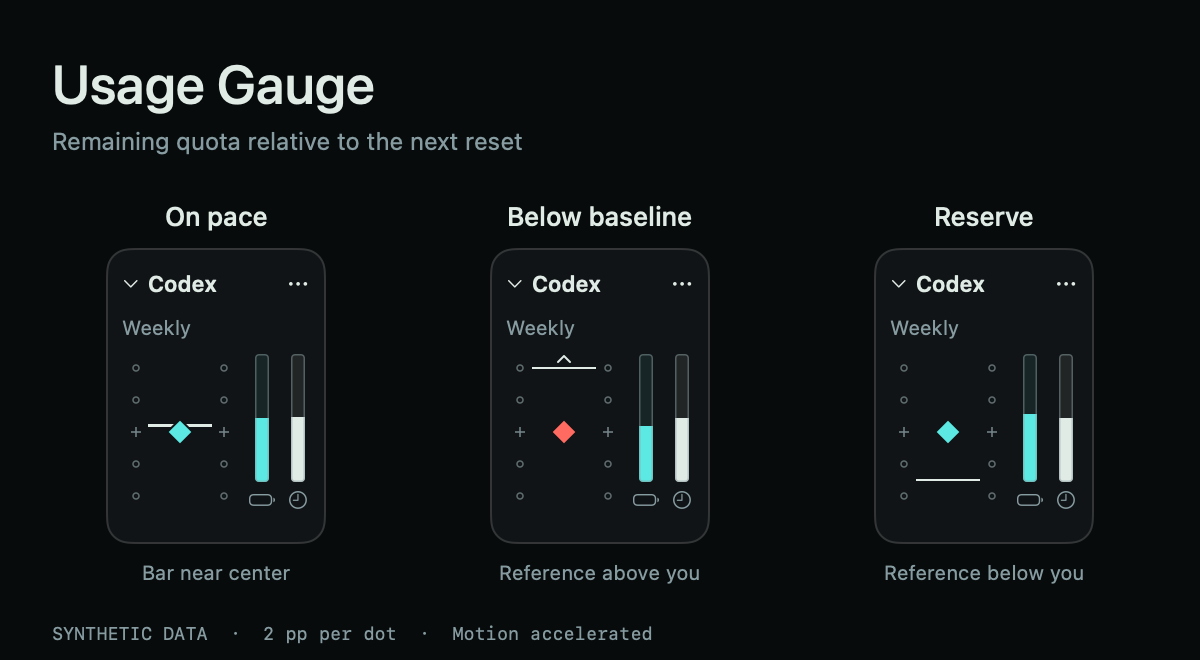
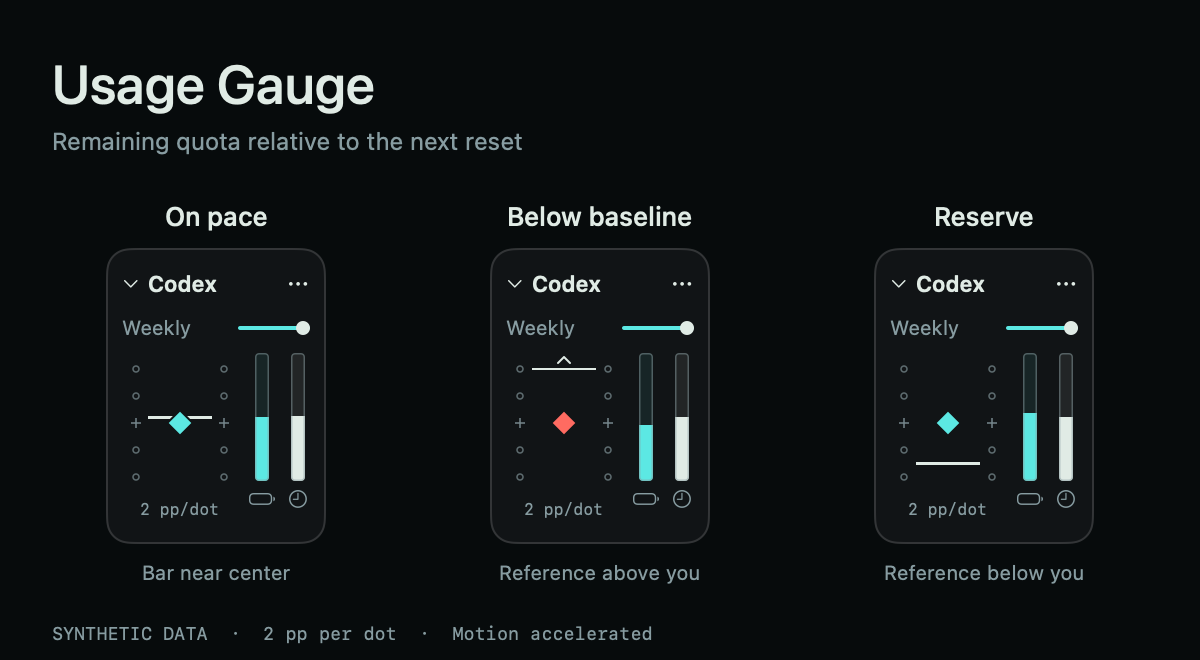
Keep dot spacing visible and add inline mini-window opacity control

diff --git a/native/Mini.swift b/native/Mini.swift
@@ -16,6 +16,7 @@ enum MiniCorner: String, CaseIterable {
 enum MiniLayout {
     static let valueSize = NSSize(width: 320, height: 184)
     static let symbolSize = NSSize(width: 110, height: 148)
+    static func opacity(_ value: Double) -> Double { value.isFinite ? min(1, max(0.3, value)) : 1 }
     static func size(symbols: Bool) -> NSSize { symbols ? symbolSize : valueSize }
     static func origin(_ corner: MiniCorner, in visible: NSRect, size: NSSize = MiniLayout.valueSize) -> NSPoint {
         NSPoint(x: (corner == .topRight || corner == .bottomRight) ? visible.maxX - size.width - 12 : visible.minX + 12,
@@ -155,9 +156,7 @@ struct MiniView: View {
                 }.menuStyle(.borderlessButton).menuIndicator(.hidden).accessibilityLabel("Limit")
             } else { Text(model.miniSymbols ? symbolTitle(quota) : quota.title) }
             Spacer(minLength: 0)
-            if model.miniSymbols && model.miniScaleFeedback {
-                Text("\(DotScale.label(model.miniScaleIndex)) pp/dot").font(.system(size: 8)).fixedSize().foregroundStyle(model.accent)
-            } else if model.miniSymbols && model.error != nil {
+            if model.miniSymbols && model.error != nil {
                 Image(systemName: "exclamationmark.triangle").font(.system(size: 9)).foregroundStyle(FlightDeck.amber)
                     .help("Refresh failed; showing the last observation")
             } else if model.miniSymbols && Date().timeIntervalSince1970 - quota.observedAt > Double(max(model.interval * 3, 600)) {
@@ -166,6 +165,13 @@ struct MiniView: View {
             } else if model.isRefreshing {
                 if model.miniSymbols { Image(systemName: "arrow.triangle.2.circlepath").font(.system(size: 8)).help("Updating…") }
                 else { Text("Updating…") }
+            }
+            if model.miniSymbols {
+                Slider(value: $model.miniOpacity, in: 0.3...1, step: 0.05)
+                    .labelsHidden().controlSize(.mini).tint(model.accent).frame(width: 36)
+                    .accessibilityLabel("Window opacity")
+                    .accessibilityValue("\(Int((model.miniOpacity * 100).rounded())) percent")
+                    .help("Window opacity: \(Int((model.miniOpacity * 100).rounded()))%")
             }
         }.font(.system(size: 10)).foregroundStyle(FlightDeck.muted).frame(height: 14)
     }
@@ -180,18 +186,22 @@ struct MiniView: View {
         let baseline = quota.isIdle ? nil : quota.baseline(time)
         let expired = !quota.isIdle && time >= quota.resetAt
         let stale = time - quota.observedAt > Double(max(model.interval * 3, 600))
-        return HStack(spacing: 6) {
-            VerticalComparison(remaining: quota.remaining, baseline: expired ? nil : baseline,
-                               pointsPerDot: DotScale.points(model.miniScaleIndex), isCurrent: !stale && model.error == nil, color: model.accent)
-                .frame(maxWidth: .infinity)
-                .overlay(DotScaleWheel(selection: $model.miniScaleIndex))
+        return HStack(alignment: .top, spacing: 6) {
+            VStack(spacing: 3) {
+                VerticalComparison(remaining: quota.remaining, baseline: expired ? nil : baseline,
+                                   pointsPerDot: DotScale.points(model.miniScaleIndex), isCurrent: !stale && model.error == nil, color: model.accent)
+                    .frame(height: 70)
+                    .overlay(DotScaleWheel(selection: $model.miniScaleIndex))
+                Text("\(DotScale.label(model.miniScaleIndex)) pp/dot")
+                    .font(.system(size: 8, design: .monospaced)).foregroundStyle(FlightDeck.muted).frame(height: 10)
+            }.frame(maxWidth: .infinity)
             VStack(spacing: 4) {
                 RemainingBar(remaining: quota.remaining, color: model.accent)
                 Image(systemName: "battery.0percent").font(.system(size: 9)).foregroundStyle(FlightDeck.muted).frame(height: 10)
                     .accessibilityHidden(true)
             }.frame(width: 12)
             ResetBar(progress: baseline, expired: expired, color: model.accent)
-        }.frame(height: 80)
+        }.frame(height: 84)
     }
     private func readings(_ quota: Quota, now: Date) -> some View {
         let time = now.timeIntervalSince1970

diff --git a/native/Gauge.swift b/native/Gauge.swift
@@ -196,20 +196,11 @@ enum Formats {
         didSet { UserDefaults.standard.set(miniSymbols, forKey: "miniSymbols"); onChange?() }
     }
     @Published var miniScaleIndex = DotScale.bounded(UserDefaults.standard.object(forKey: "miniScaleIndex") as? Int ?? 1) {
-        didSet {
-            UserDefaults.standard.set(miniScaleIndex, forKey: "miniScaleIndex")
-            guard oldValue != miniScaleIndex else { return }
-            miniScaleFeedbackTask?.cancel()
-            miniScaleFeedback = true
-            miniScaleFeedbackTask = Task { @MainActor [weak self] in
-                try? await Task.sleep(for: .seconds(1.5))
-                guard !Task.isCancelled else { return }
-                self?.miniScaleFeedback = false
-            }
-        }
+        didSet { UserDefaults.standard.set(miniScaleIndex, forKey: "miniScaleIndex") }
     }
-    @Published var miniScaleFeedback = false
-    private var miniScaleFeedbackTask: Task<Void, Never>?
+    @Published var miniOpacity = MiniLayout.opacity(UserDefaults.standard.object(forKey: "miniOpacity") as? Double ?? 1) {
+        didSet { UserDefaults.standard.set(miniOpacity, forKey: "miniOpacity"); onChange?() }
+    }
     var onMoveMini: ((MiniCorner) -> Void)?
     var onChange: (() -> Void)?
     private var timer: Timer?
@@ -277,7 +268,7 @@ enum Formats {
         task.executableURL = URL(fileURLWithPath: "/usr/bin/python3")
         task.arguments = [helper.path, "--state-dir", dataDirectory.path]
         var environment = ProcessInfo.processInfo.environment
-        environment["PATH"] = "/opt/homebrew/bin:/usr/local/bin:/usr/bin:/bin:/usr/sbin:/sbin"
+        environment["PATH"] = NSHomeDirectory() + "/.local/bin:/opt/homebrew/bin:/usr/local/bin:/usr/bin:/bin:/usr/sbin:/sbin"
         environment["PYTHONDONTWRITEBYTECODE"] = "1"
         task.environment = environment
         task.standardOutput = FileHandle.nullDevice
@@ -676,6 +667,7 @@ struct GaugeView: View {
     func updateChrome() {
         window?.level = model.alwaysOnTop ? .floating : .normal
         miniWindow?.level = model.miniOnTop ? .floating : .normal
+        miniWindow?.alphaValue = model.miniOpacity
         if let panel = miniWindow, panel.frame.size != MiniLayout.size(symbols: model.miniSymbols), let screen = panel.screen ?? NSScreen.main {
             panel.setFrame(MiniLayout.resized(panel.frame, to: MiniLayout.size(symbols: model.miniSymbols), in: screen.visibleFrame), display: true)
             panel.saveFrame(usingName: "UsageGaugeMiniWindow")
@@ -788,6 +780,7 @@ struct GaugeView: View {
             precondition(fullMini.maxX == smallMini.maxX && fullMini.maxY == smallMini.maxY)
             precondition(MiniLayout.resized(smallMini, to: MiniLayout.valueSize, in: secondaryDisplay) == fullMini)
             precondition(MiniLayout.countdown(-5) == "00:00:00" && MiniLayout.countdown(172801) == "48:00:01")
+            precondition(MiniLayout.opacity(0) == 0.3 && MiniLayout.opacity(2) == 1 && MiniLayout.opacity(0.65) == 0.65)
             // The reference moves up for a deficit, down for a reserve; one dot is 2 pp.
             precondition(UsageDeviation(remaining: 30, baseline: 30).normalized == 0)
             precondition(UsageDeviation(remaining: 30, baseline: 32).normalized == 0.5)

diff --git a/tools/Demo.swift b/tools/Demo.swift
@@ -16,16 +16,25 @@ struct DemoMini: View {
                 Spacer(minLength: 0)
                 Image(systemName: "ellipsis").font(.system(size: 10))
             }.frame(height: 20)
-            Text("Weekly").font(.system(size: 10)).foregroundStyle(FlightDeck.muted).frame(height: 14)
-            HStack(spacing: 6) {
-                VerticalComparison(remaining: remaining, baseline: baseline, color: FlightDeck.cyan, sampleTime: time)
-                    .frame(maxWidth: .infinity)
+            HStack(spacing: 2) {
+                Text("Weekly").font(.system(size: 10)).foregroundStyle(FlightDeck.muted)
+                Spacer(minLength: 0)
+                ZStack(alignment: .trailing) {
+                    Capsule().fill(FlightDeck.cyan).frame(height: 2)
+                    Circle().fill(FlightDeck.ink).frame(width: 7, height: 7)
+                }.frame(width: 36)
+            }.frame(height: 14)
+            HStack(alignment: .top, spacing: 6) {
+                VStack(spacing: 3) {
+                    VerticalComparison(remaining: remaining, baseline: baseline, color: FlightDeck.cyan, sampleTime: time).frame(height: 70)
+                    Text("2 pp/dot").font(.system(size: 8, design: .monospaced)).foregroundStyle(FlightDeck.muted).frame(height: 10)
+                }.frame(maxWidth: .infinity)
                 VStack(spacing: 4) {
                     RemainingBar(remaining: remaining, color: FlightDeck.cyan)
                     Image(systemName: "battery.0percent").font(.system(size: 9)).foregroundStyle(FlightDeck.muted).frame(height: 10)
                 }.frame(width: 12)
                 ResetBar(progress: baseline, expired: false, color: FlightDeck.cyan)
-            }.frame(height: 80)
+            }.frame(height: 84)
         }.padding(8).frame(width: 110, height: 148, alignment: .topLeading)
             .background(FlightDeck.panel, in: RoundedRectangle(cornerRadius: 12))
             .overlay(RoundedRectangle(cornerRadius: 12).strokeBorder(.white.opacity(0.14), lineWidth: 1))

diff --git a/README.md b/README.md
@@ -19,6 +19,7 @@ The **diamond stays at the center** and represents your current remaining quota.
 The center is **your current state**, not 50% remaining. The two thin vertical bars show absolute remaining quota (battery icon) and time remaining in the window (clock icon).
 
 - Scroll over the dot scale to choose **1, 2, or 5 percentage points per dot**. Up selects a finer scale; down selects a wider one. Click the scale for a menu.
+- The selected **pp/dot stays visible below the scale**. The small slider beside the limit name adjusts mini-window opacity from **30–100%**, with the setting saved across launches.
 - Two dots on either side give ranges of **±2, ±4, or ±10 pp**. Center crosses complete the equally spaced scale.
 - At the upper limit, the diamond alternates between the service color and red every **0.8 seconds**, without fading. A chevron marks values beyond the scale. The warning threshold changes with the selected scale; it is not a provider-defined quota alert.
 - With macOS Reduce Motion enabled, the warning is steady red. An unavailable or stale observation pauses the warning and shows a status icon.
